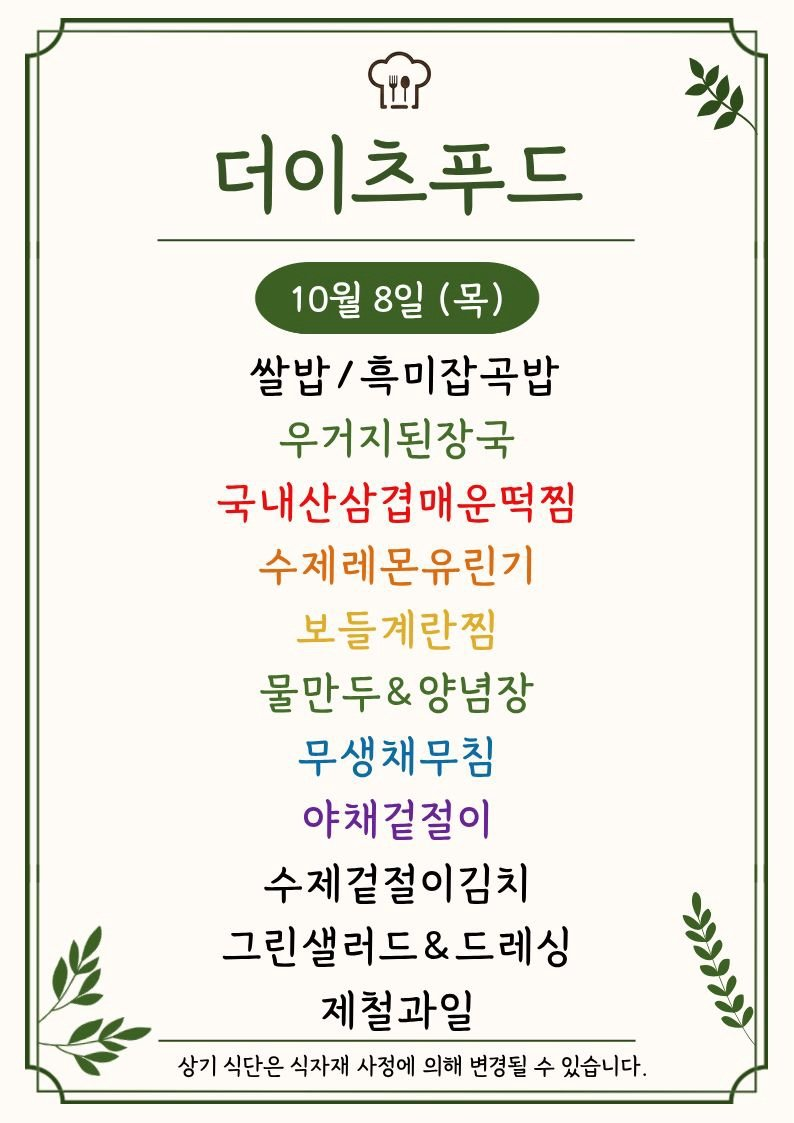
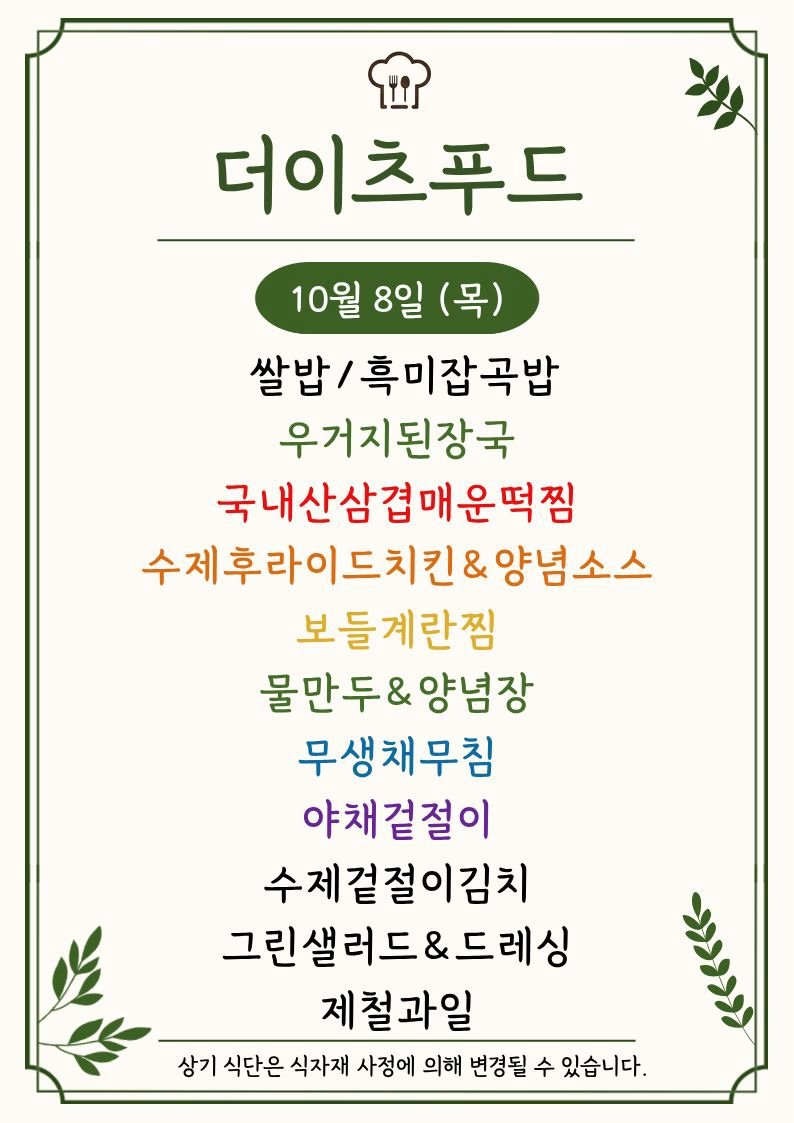
Update menu board assets

Changed region(s): [[0.1814, 0.4675, 0.8161, 0.5298]]

diff --git a/guro-menu/index.html b/guro-menu/index.html
@@ -32,7 +32,7 @@
   </header>
   <section class="meta">
     <div><small>기준 날짜</small><strong>2026년 10월 8일 목요일</strong></div>
-    <div><small>최종 갱신</small><strong>2026-10-08 11:13:46</strong></div>
+    <div><small>최종 갱신</small><strong>2026-10-08 11:18:52</strong></div>
     <div><small>등록 식당</small><strong>5개</strong></div>
   </section>
   <div class="notice">공개 카카오 채널의 메뉴 이미지를 자동 수집하고 OCR로 정리합니다. 텍스트에 오타가 있을 수 있으니 식단 이미지를 함께 확인해 주세요.</div>
@@ -76,7 +76,7 @@
         </div>
         <img class="menu-image" src="./images/the-eats-food.png" alt="더이츠푸드 식단 이미지" loading="lazy">
         
-        <ul><li>이 AZAZC</li><li>쌀밥/흑미잡곡밥</li><li>우거지된장국</li><li>국내산삼겹매운떡찜</li><li>수제레몬유린기</li><li>물만두&amp;양념장</li><li>무생채무침</li><li>야채겉절이</li><li>수제겉절이김치 0</li><li>그린샐러드&amp;드레싱 Y</li><li>제철과일 y</li></ul>
+        <ul><li>더이 2 ㄷ</li><li>쌀밥/흑미잡곡밥</li><li>우거지된장국</li><li>국내산삼겹매운떡찜</li><li>수제후라이드치킨&amp;양념소스</li><li>물만두&amp;양념장</li><li>무생채무침</li><li>야채겉절이</li><li>수제겉절이김치 0</li><li>그린샐러드&amp;드레싱 %</li><li>제철과일 이</li></ul>
       </article>
 
       <article class="restaurant-card">

diff --git a/menu-today/index.html b/menu-today/index.html
@@ -209,7 +209,7 @@
 
     <section class="meta-bar">
       <div class="meta-card"><div class="meta-label">기준 날짜</div><div class="meta-value">2026년 10월 8일 목요일</div></div>
-      <div class="meta-card"><div class="meta-label">최종 가져온 시간</div><div class="meta-value">2026-10-08 11:13:33</div></div>
+      <div class="meta-card"><div class="meta-label">최종 가져온 시간</div><div class="meta-value">2026-10-08 11:18:38</div></div>
       <div class="meta-card"><div class="meta-label">확인 완료</div><div class="meta-value">9개 식당</div></div>
       <div class="meta-card"><div class="meta-label">준비중</div><div class="meta-value">3개 채널</div></div>
     </section>
